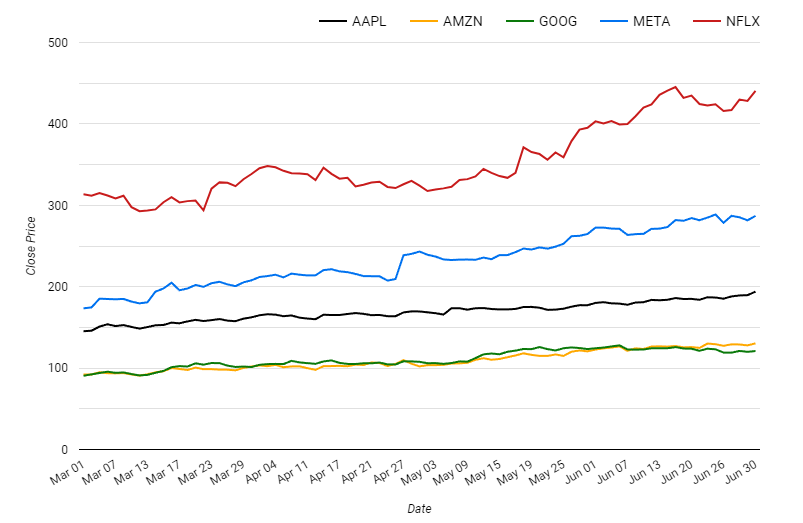
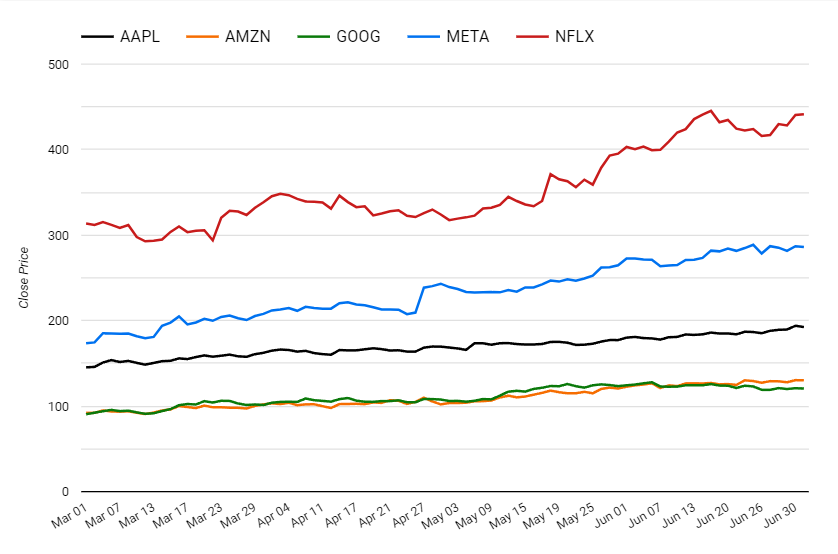
modified stock-analysis post

diff --git a/posts/stock-analysis.md b/posts/stock-analysis.md
@@ -1,11 +1,11 @@
 ---
-title: "End-to-End Stock Data Analysis (WIP)"
-date: "July 2, 2023"
+title: "End-to-End Stock Data Analysis"
+date: "July 5, 2023"
 excerp: ""
 cover_image: "/images/posts/stock-analysis/stock-cover.jpg"
 ---
 
-_**This post is still being updated**_
+_*This post is still being updated*_
 
 ## Table of Contents
 1. [Overview](#overview)
@@ -13,13 +13,15 @@ _**This post is still being updated**_
 3. [Workflow](#workflow)
 
 ## Overview <a name="overview"></a>
-I thought it would be fun to create my own end-to-end cloud-based application to gather and analyze stock data. To do this, I used a Google Cloud Platform account for hosting and free tier [Polygon API](https://polygon.io/) for data gathering. Here is a simple workflow diagram
+I thought it would be fun to create my own end-to-end cloud-based application to gather and analyze stock data. While the application code is kept on GCP Source Repositories, I also created a corresponding [Github repo](https://github.com/ptdk1020/stock-analysis) for future reference.
+
+Moving onto the project overview, I used a Google Cloud Platform account for hosting and free tier [Polygon API](https://polygon.io/) for data gathering. Here is a simple workflow diagram
 
 ![post2-1](/images/posts/stock-analysis/stock-project-overview.jpg "Overview Diagram")
 
 The application code is deployed to a Compute Engine instance where it is run inside a [Docker](https://www.docker.com/) container. The instance is configured to run the container application daily. The application makes Polygon API calls, saves raw data to a cloud storage bucket, and inserts ETL-processed data to a SQLite metadatabase stored in the same storage bucket.
 
-*Note: I use the processed data to run time series stock price predictions (to expanded at a later update).*
+I use a smaller portion of the processed data to run stock price predictions using an LSTM model. Of course, other recurrent network architectures (such as RNN or GRU) or vector times series models (such as Vector Auto Regression) would also work.
 
 
 ## Setup <a name="setup"></a>
@@ -28,11 +30,11 @@ Simply go to [Polygon](https://polygon.io/) and request a Free API key. The basi
 
 From the [documentation](https://polygon.io/docs/stocks), there is a quite a variety of calls one can make such as getting the list of tickers, getting details of a particular ticker, getting the trades of a particular ticker within a given time range, etc. 
 
-To get the most out of a single API call, I decided to use [Grouped Daily](https://polygon.io/docs/stocks/get_v2_aggs_grouped_locale_us_market_stocks__date) calls to obtain the OHLC (open, high, low, and close) for the entire stocks/equities markets.
+To get the most out of a single API call, I decided to use [Grouped Daily calls](https://polygon.io/docs/stocks/get_v2_aggs_grouped_locale_us_market_stocks__date) to obtain the OHLC (open, high, low, and close) for the entire stocks/equities markets.
 
 ### Cloud Components Setup
 #### Compute Engine
-I prefer my compute instance to be as small as possible, so I went with the e2-micro (2vCPU, 1Gb Memory, 10Gb VM storage) with a Debian image. In hindsight, it may have been a better idea to go with a Container-Optimized OS image since it would have Docker pre-installed.
+I prefer my compute instance to be as small as possible, so I went with the e2-micro (2vCPU, 1Gb Memory, 10Gb VM storage) with a Debian image. 
 
 I went through a couple of iterations when deploying the application. It was originally simply deployed with a codebase where my scripts were triggered by a cronjob. But since that made it difficult for local testing and migration, I decided to dockerize it. One can follow these [instructions](https://docs.docker.com/engine/install/debian/) to install Docker on the instance.
 
@@ -40,18 +42,26 @@ I went through a couple of iterations when deploying the application. It was ori
 I use a cloud storage bucket to store the raw API JSON response as well as a SQLite metadatabase.
 
 #### Codebase
-To keep things in the same ecosystem, I kept the code on GCP Source Repositories, which can then be pulled to the compute instance as well as my desktop for local development. Below is the structure of the code base.
+To keep things in the same ecosystem, I kept the code on GCP Source Repositories, which can then be pulled to the compute instance as well as my desktop for local development. Below is the structure of the relevant codebase.
 ```
 ├── src
 │   ├── sql_scripts
 │   │   ├── *.sql
-│   ├── *.py
+│   ├── bq_schemas
+│   │   ├── small_daily.json
+│   ├── forecasting
+│   │   ├── data_prep.py
+│   │   ├── models.py
+│   ├── api_models.py
+│   ├── bigquery.py
+│   ├── etl_grouped_daily.py
+│   ├── forecast.py
+│   ├── get_grouped_daily.py
 ├── shell_scripts
 │   ├── run.sh
 ├── .env
 ├── Dockerfile
-├── requirements.txt
-└── .gitignore
+└── requirements.txt
 ```
 Note that the `.env` file is not committed to the repository.
 
@@ -62,35 +72,46 @@ Once the code is pulled to the instance, I simply create a `.env` file, build th
 The content of the Dockerfile is as follows:
 ```dockerfile
 FROM google/cloud-sdk:slim
+
 WORKDIR /stockapp
 COPY .env requirements.txt ./
 ADD /src ./src
 ADD /shell_scripts ./shell_scripts
 
-RUN mkdir -p ./data ./data/ticker_json ./data/grouped_daily_json
+RUN mkdir -p ./data ./data/ticker_json ./data/grouped_daily_json ./data/models
 RUN pip3 install -r requirements.txt
 RUN pip3 install torch --index-url https://download.pytorch.org/whl/cpu
+
 RUN chmod +x ./shell_scripts/*.sh
 
 CMD ["./shell_scripts/run.sh"]
 ```
 
-The container would run the `run.sh` executable at every daily cronjob run. The content of this script is as follows.
+The container would run the `run.sh` executable at every daily cron job. The content of this script is as follows.
 ```sh
 #!/bin/sh
 echo $(date +"Container run started at: %c")
 python3 /stockapp/src/get_grouped_daily.py
+
 gsutil -m cp -r -n /stockapp/data/grouped_daily_json gs://stock-data-project-khoa
 gsutil cp gs://stock-data-project-khoa/stock.db /stockapp/data/stock.db
+gsutil -m cp -r gs://stock-data-project-khoa/models /stockapp/data
+
 python3 /stockapp/src/etl_grouped_daily.py
-gsutil cp /stockapp/data/stock.db gs://stock-data-project-khoa
+python3 /stockapp/src/forecast.py
 python3 /stockapp/src/bigquery.py
+
+
+gsutil cp -r /stockapp/data/models gs://stock-data-project-khoa
+gsutil cp /stockapp/data/stock.db gs://stock-data-project-khoa
+
 rm /stockapp/data/grouped_daily_json/*
+rm /stockapp/data/models/*
 rm /stockapp/data/stock.db
 echo $(date +"Container run ended at: %c")
 ```
 
-### ETL Process
+### ETL and Forecast Process
 From the shell script displayed above: 
 - The `get_grouped_daily.py` script makes the API call, and saves JSON response to the storage bucket. 
 - The `etl_grouped_daily.py` script loads the JSON response, does some light processing, and insert the data into the SQLite metadatabase file.
@@ -99,9 +120,14 @@ From the shell script displayed above:
 
 The data is inserted into the `daily` table. As we can see, each line contains the OHLC prices of a particular ticker in a particular day. 
 
-- The `bigquery.py` writes a smaller table into BigQuery for quick analysis by only considering data for tickers AAPL, AMZN, GOOG, META, NFLX. As shown below, the data can then be displayed by connecting it to a Looker Studio report.
-
 ![](/images/posts/stock-analysis/close-price.png "Daily Close Price")
+
+- The `forecast.py` considers data for tickers AAPL, AMZN, GOOG, META, NFLX. It runs historical close price prediction as well as forecasting for the following days. The resulting data is stored the `small_daily` table in the metadatabase.
+- The `bigquery.py` queries the `small_daily` table and writes it into BigQuery for quick analysis. The data can then be displayed by connecting the BigQuery table to a Looker Studio report.
+
+![](/images/posts/stock-analysis/pred-close-price.png "Daily Close Price Prediction")
+
+
 
 
 
